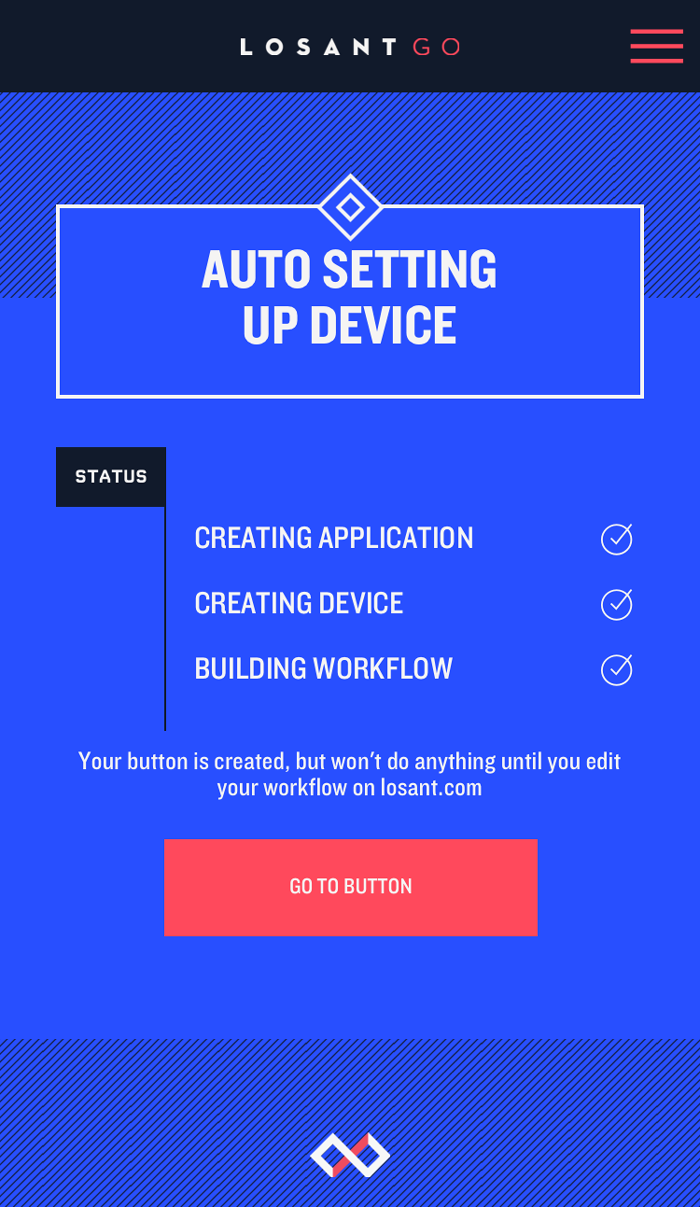
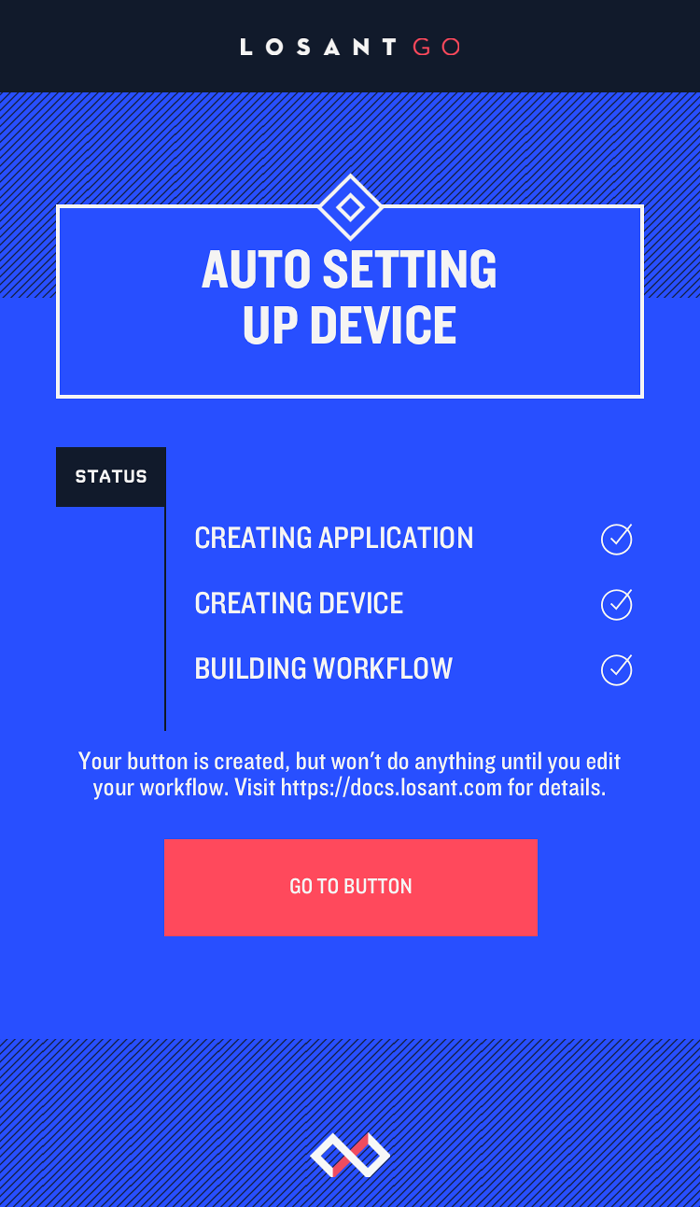
Updated screens and added periods.

Changed region(s): [[0.12, 0.6437, 0.87, 0.6744], [0.9, 0.0, 0.99, 0.0613]]

diff --git a/docs/losant-go/overview.md b/docs/losant-go/overview.md
@@ -6,9 +6,9 @@ The Losant GO app works by turning your mobile phone into a Losant device. You c
 
 ### Create Account
 
-If you don't already have an account, navigate to [https://accounts.losant.com/create-account](https://accounts.losant.com/create-account) to register, or sign up through the app.
+If you don't already have an account, navigate to [https://accounts.losant.com/create-account](https://accounts.losant.com/create-account) to register, or create an account through the app.
 
-<div class="slim-image-container"><img src="/images/losant-go/sign-up-link.png" /><img src="/images/losant-go/sign-up-screen.png" alt="Auto Setup Option" title="Auto Setup Option" /></div>
+<div class="slim-image-container"><img src="/images/losant-go/sign-up-link.png" alt="Create Account Link" title="Create Account Link" /><img src="/images/losant-go/sign-up-screen.png" alt="Auto Setup Option" title="Auto Setup Option" /></div>
 
 ### Auto Setup
 
@@ -58,15 +58,15 @@ To view the debugging data, log in to Losant, and do the following:
 
 ![View Applications](/images/losant-go/view-applications.png "View Applications")
 
-*2. Click on "Losant Go Mobile App"*
+*2. Click on "Losant Go Mobile App".*
 
 ![Losant Go Mobile App Link](/images/losant-go/losant-go-app-link.png "Losant Go Mobile App Link")
 
-*3. Click on "Losant Mobile Workflow"*
+*3. Click on "Losant Mobile Workflow".*
 
 ![Losant Mobie Workflow Link](/images/losant-go/losant-mobile-workflow-link.png "Losant Mobie Workflow Link")
 
-*4. Click the "Debug" tab on the screen*
+*4. Click the "Debug" tab on the screen.*
 
 ![Debug Tab](/images/losant-go/debug-tab.png "Debug Tab")
 
@@ -80,11 +80,11 @@ This information is called a "payload", and it is in JSON format.  We will revis
 
 Ok, let’s make your button do something.  In the following example, you will be configuring the Losant workflow to send an SMS with data from your payload.
 
-*1. Scroll down "Node Palette" on the left side, and locate the "SMS" node. Drag it to the screen*
+*1. Scroll down "Node Palette" on the left side, and locate the "SMS" node. Drag it to the screen.*
 
 ![Drag SMS Node](/images/losant-go/drag-sms-node.png "Drag SMS Node")
 
-*2. Connect the "Debug" node to the "SMS" node by dragging the bottom point of the "Debug" node to the top point of the "SMS" node*
+*2. Connect the "Debug" node to the "SMS" node by dragging the bottom point of the "Debug" node to the top point of the "SMS" node.*
 
 ![Connect Debug node to SMS node](/images/losant-go/connect-debug-sms.png "Connect Debug node to SMS node")
 
@@ -100,7 +100,7 @@ Ok, let’s make your button do something.  In the following example, you will b
 
 This will pull data from your payload, which was mentioned above.  You can reference data in the payload json using the {{ }}.
 
-*5. Click "Deploy Workflow"*
+*5. Click "Deploy Workflow".*
 
 ![Click Deploy Workflow](/images/losant-go/deploy-workflow.png "Click Deploy Workflow")
 
